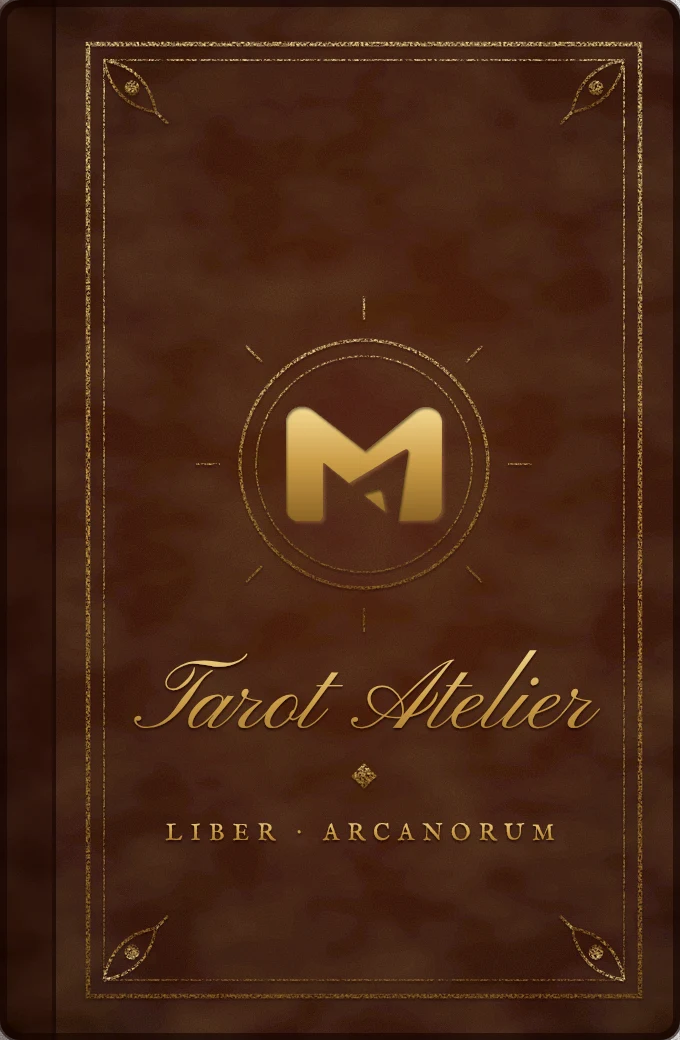
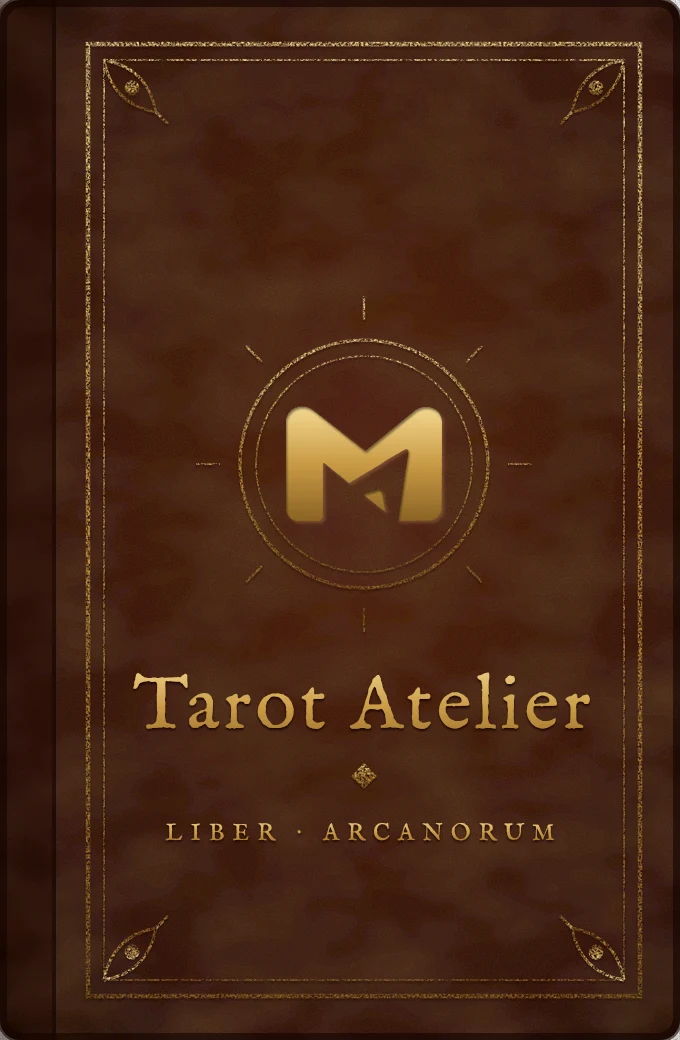
feat(book): Card Reading 亮起背光、手機改放牌陣下方，全站不用草寫 (#55)
* feat(table): light up "Card Reading" once the cards are revealed

Once every card is revealed, "Card Reading" is lit from behind in the
contents' warm light, breathing slowly (steady with less motion), to show
the next step. On a phone it now sits right under the table, in view as
the last card turns, instead of below the questions; opening it brings
the reading at the foot of the page into view and gives it the focus.

Claude-Session: https://claude.ai/code/session_01YWQ4AH8AGc3ra9ztDAqnKM

* fix(reading): set the reading's title in the face of its "Card Reading" cue

The cue that opens the reading was in the controls' face (IM Fell
English) while the reading's title was in the chapters' script, so
"Card Reading" read as two different things. The owner chose the cue's
face for both: the title, on facing pages and under the table, is now
IM Fell English at 34px.

Claude-Session: https://claude.ai/code/session_01YWQ4AH8AGc3ra9ztDAqnKM

* feat(book): set every title in the plain English face, no script

The owner asked for no script lettering anywhere. Page titles and the
contents' English entries now use IM Fell English (the face of the book's
controls), sized down to suit it; the cover's "Tarot Atelier" and the
frontispiece ribbon are re-lettered in it too (pnpm book-art). Pinyon
Script is no longer used, so its package, font import and licence
record go.

Claude-Session: https://claude.ai/code/session_01YWQ4AH8AGc3ra9ztDAqnKM
[…]

Changed region(s): [[0.1853, 0.6154, 0.8647, 0.7077]]

diff --git a/src/presentation/components/DrawExperience.test.tsx b/src/presentation/components/DrawExperience.test.tsx
@@ -308,7 +308,7 @@ describe("DrawExperience spread table", () => {
     expect(screen.queryByRole("button", { name: "看解讀" })).toBeNull();
   });
 
-  it("reads the finished spread offline, labelled as a sample", async () => {
+  it("takes the focus to the reading it opens at the foot of the page", async () => {
     renderTable();
     await ready();
     await shuffleAndPick();
@@ -316,7 +316,17 @@ describe("DrawExperience spread table", () => {
     await screen.findByText("牌陣已完成");
 
     openReading();
-    fireEvent.click(screen.getByRole("button", { name: "產生解讀" }));
+    expect(screen.getByRole("region", { name: "解讀" })).toHaveFocus();
+  });
+
+  it("reads the cards as soon as Card Reading is pressed, offline as a labelled sample", async () => {
+    renderTable();
+    await ready();
+    await shuffleAndPick();
+    [1, 2, 3].forEach((index) => reveal(index));
+    await screen.findByText("牌陣已完成");
+
+    openReading();
     expect(await screen.findByText("全局關聯")).toBeInTheDocument();
     expect(screen.getByText("範例解牌，不是 AI")).toBeInTheDocument();
     expect(document.querySelectorAll(".printed-reading__section")).toHaveLength(
@@ -340,10 +350,12 @@ describe("DrawExperience spread table", () => {
     expect(recorded?.reading).toBeUndefined();
 
     openReading();
-    fireEvent.click(screen.getByRole("button", { name: "產生解讀" }));
     await screen.findByText("全局關聯");
+    // The reading is stored once it has been read; the round stays one.
+    await waitFor(() =>
+      expect(storedRecords(historyStorage)[0]?.reading).toBeDefined(),
+    );
     expect(storedRecords(historyStorage)).toHaveLength(1);
-    expect(storedRecords(historyStorage)[0]?.reading).toBeDefined();
   });
 
   it("shares the finished table with its current reading", async () => {
@@ -353,7 +365,6 @@ describe("DrawExperience spread table", () => {
     [1, 2, 3].forEach((index) => reveal(index));
     await screen.findByText("牌陣已完成");
     openReading();
-    fireEvent.click(screen.getByRole("button", { name: "產生解讀" }));
     await screen.findByText("全局關聯");
 
     fireEvent.click(screen.getByRole("button", { name: "分享" }));
@@ -374,7 +385,6 @@ describe("DrawExperience spread table", () => {
     [1, 2, 3].forEach((index) => reveal(index));
     await screen.findByText("牌陣已完成");
     openReading();
-    fireEvent.click(screen.getByRole("button", { name: "產生解讀" }));
     await screen.findByText("全局關聯");
 
     fireEvent.click(screen.getByRole("button", { name: "清除本次牌陣" }));
@@ -388,7 +398,20 @@ describe("DrawExperience spread table", () => {
     // The new round's reading waits to be asked for again.
     expect(screen.queryByText("全局關聯")).toBeNull();
     openReading();
-    expect(screen.getByRole("button", { name: "產生解讀" })).toBeEnabled();
+    expect(await screen.findByText("全局關聯")).toBeInTheDocument();
+  });
+
+  it("offers sharing beside Card Reading once every card is revealed", async () => {
+    const { share } = renderTable();
+    await ready("這份新工作適合我嗎？");
+    await shuffleAndPick();
+    [1, 2, 3].forEach((index) => reveal(index));
+    await screen.findByText("牌陣已完成");
+
+    fireEvent.click(screen.getByRole("button", { name: "分享" }));
+    const dialog = screen.getByRole("dialog", { name: "分享這次的牌" });
+    await within(dialog).findByAltText("要分享的圖卡預覽");
+    expect(share.rendered.at(-1)?.positions).toHaveLength(3);
   });
 
   it("never shows players the jumper probability", async () => {
@@ -1057,7 +1080,6 @@ describe("DrawExperience on facing pages", () => {
 
     expect(screen.getByRole("heading", { name: "Card Reading" })).toBeVisible();
     expect(document.querySelector(".draw-table__play")).toBeNull();
-    fireEvent.click(screen.getByRole("button", { name: "產生解讀" }));
     expect(await screen.findByText("全局關聯")).toBeInTheDocument();
     // Printed, not folded: each position headed by its short name.
     expect(document.querySelector(".reading-panel details")).toBeNull();

diff --git a/src/presentation/components/DrawExperience.tsx b/src/presentation/components/DrawExperience.tsx
@@ -37,6 +37,7 @@ import { ArrangeConfirmDialog } from "@/presentation/components/spread/ArrangeCo
 import { TableHint } from "@/presentation/components/draw/TableHint";
 import { BookFloatButton } from "@/presentation/components/book/BookFloatButton";
 import { BOOK_COPY } from "@/presentation/components/book/bookCopy";
+import { SHARE_COPY } from "@/presentation/components/share/shareLabels";
 import { MainQuestionField } from "@/presentation/components/spread/MainQuestionField";
 import {
   SpreadBoard,
@@ -198,11 +199,23 @@ export function DrawExperience({
   // opens under the table.
   const readingPage =
     layout === "facing-pages" ? readingPages?.page : undefined;
+  // Opened on one page, the reading lies at the foot of the page: the view
+  // follows it there, and it takes the focus from the cue that opened it.
+  const readingPanel = useRef<HTMLElement>(null);
   const readingOpen =
     layout === "single-page" &&
     spreadRevealed &&
     roundKey !== undefined &&
     readingRound === roundKey;
+  useEffect(() => {
+    const panel = readingPanel.current;
+    if (!readingOpen || !panel) return;
+    panel.focus({ preventScroll: true });
+    panel.scrollIntoView?.({
+      behavior: motionMode === "animated" ? "smooth" : "auto",
+      block: "start",
+    });
+  }, [readingOpen, motionMode]);
   // One spread of the reading on facing pages, live or as a still copy.
   const readingOnPages = (
     page: number,
@@ -231,10 +244,13 @@ export function DrawExperience({
   );
   const showReadingPage = (page: number | undefined) =>
     readingPages?.show(page, printedSpread);
-  const openReading = () =>
-    layout === "facing-pages" && readingPages
-      ? showReadingPage(0)
-      : setReadingRound(roundKey);
+  // "Card Reading" reads the cards at once: there is no second button to
+  // press, unless this round already has a reading or one on the way.
+  const openReading = () => {
+    if (reading.state.status === "idle" && reading.build.ok) reading.generate();
+    if (layout === "facing-pages" && readingPages) showReadingPage(0);
+    else setReadingRound(roundKey);
+  };
 
   const unfinished = arranging || (filled > 0 && !spreadRevealed);
   // On facing pages the notes page has room for the question or for the
@@ -421,15 +437,20 @@ export function DrawExperience({
               {spreadRevealed && !arranging && !readingOpen && (
                 <div className="draw-table__reading-cue">
                   <BookFloatButton
+                    className="draw-table__reading-open"
                     label={BOOK_COPY.cardReadingLabel}
                     onPress={openReading}
                   >
                     <span lang="en">{BOOK_COPY.cardReading}</span>
                   </BookFloatButton>
+                  <BookFloatButton label={SHARE_COPY.open} onPress={shareRound}>
+                    <span lang="en">{BOOK_COPY.share}</span>
+                  </BookFloatButton>
                 </div>
               )}
               {readingOpen && (
                 <ReadingPanel
+                  ref={readingPanel}
                   session={reading}
                   revealed={spreadRevealed}
                   source={readingProvider.source}

diff --git a/e2e/reading.spec.ts b/e2e/reading.spec.ts
@@ -57,7 +57,6 @@ test("reads a finished spread with AI through the site's own endpoint", async ({
 
   await expect(panel.getByRole("radio")).toHaveCount(0);
 
-  await panel.getByRole("button", { name: "產生解讀" }).click();
   await expect(panel.getByText("AI 解讀", { exact: true })).toBeVisible();
   const sections = panel.locator(READING_SECTIONS);
   await expect(sections).toHaveCount(3 + 3);
@@ -90,7 +89,6 @@ test("falls back to a labelled sample when today's AI readings are used up", asy
     reason: "daily-limit",
   });
 
-  await panel.getByRole("button", { name: "產生解讀" }).click();
   await expect(panel.getByText(/今天的 AI 解讀額度已用完/u)).toBeVisible();
   await expect(panel.getByText("範例解牌，不是 AI")).toBeVisible();
   const sections = panel.locator(READING_SECTIONS);
@@ -109,7 +107,6 @@ test("falls back to a labelled sample when the AI is unavailable", async ({
     reason: "unavailable",
   });
 
-  await panel.getByRole("button", { name: "產生解讀" }).click();
   await expect(panel.getByText(/AI 解讀暫時無法使用/u)).toBeVisible();
   await expect(panel.getByText("範例解牌，不是 AI")).toBeVisible();
 });

diff --git a/src/presentation/components/draw/table-hint.css b/src/presentation/components/draw/table-hint.css
@@ -45,5 +45,47 @@
 .draw-table__reading-cue {
   display: flex;
   justify-content: center;
+  align-items: baseline;
+  gap: 32px;
   margin: 0 0 16px;
+}
+
+/* Once every card is revealed, "Card Reading" is lit from behind in the
+   contents' warm light, breathing slowly, to show the next step; "Share"
+   beside it stays plain. */
+.draw-table__reading-open {
+  position: relative;
+  isolation: isolate;
+}
+
+.draw-table__reading-open::before {
+  content: "";
+  position: absolute;
+  z-index: -1;
+  inset: -12px -26px;
+  border-radius: 999px;
+  background: radial-gradient(
+    ellipse at 50% 50%,
+    rgba(255, 206, 110, 0.95),
+    rgba(255, 180, 70, 0.5) 45%,
+    rgba(255, 180, 70, 0) 74%
+  );
+  pointer-events: none;
+}
+
+/* Less motion leaves the light on, without breathing. */
+.draw-experience[data-motion="animated"] .draw-table__reading-open::before {
+  animation: reading-cue-glow 2.4s ease-in-out infinite alternate;
+}
+
+@keyframes reading-cue-glow {
+  from {
+    opacity: 0.45;
+    transform: scale(0.94);
+  }
+
+  to {
+    opacity: 1;
+    transform: scale(1.04);
+  }
 }

diff --git a/src/presentation/components/book/book.css b/src/presentation/components/book/book.css
@@ -6,7 +6,6 @@
   --book-paper: #efe0bd;
   --book-paper-deep: #e4cf9f;
   --book-gold: #e6c57a;
-  --book-script: "Pinyon Script", cursive;
   --book-serif: "IM Fell English", "Iansui", serif;
   --book-text: "Iansui", "Noto Serif TC", serif;
   --book-space-1: 8px;
@@ -288,8 +287,9 @@
 }
 
 .book-title:lang(en) {
-  font-family: var(--book-script);
-  font-size: clamp(40px, 11vw, 64px);
+  font-family: var(--book-serif);
+  font-size: clamp(30px, 8vw, 46px);
+  letter-spacing: 0.04em;
 }
 
 .book-title:focus {
@@ -504,7 +504,7 @@
   color: var(--book-ink-soft);
 }
 
-/* A reader's own spread may be named in Chinese, which the script face
+/* A reader's own spread may be named in Chinese, which the English face
    cannot set: titles take the hand-lettered face unless marked English. */
 .book-contents__title {
   font-family: var(--book-text);
@@ -514,8 +514,9 @@
 }
 
 .book-contents__title:lang(en) {
-  font-family: var(--book-script);
-  font-size: 30px;
+  font-family: var(--book-serif);
+  font-size: 24px;
+  letter-spacing: 0.03em;
 }
 
 .book-contents__dots {

diff --git a/src/presentation/components/reading/ReadingPanel.tsx b/src/presentation/components/reading/ReadingPanel.tsx
@@ -1,6 +1,6 @@
 "use client";
 
-import { useId, type ReactNode } from "react";
+import { useId, type ReactNode, type Ref } from "react";
 import type { ReadingSource } from "@/domain/reading/types";
 import {
   FAILURE_MESSAGES,
@@ -24,6 +24,8 @@ interface ReadingPanelProps {
   readonly onShare: () => void;
   /** The reading's title, printed first, as the page around it sets it. */
   readonly heading: ReactNode;
+  /** The panel itself, which can take the focus when it is turned to. */
+  readonly ref?: Ref<HTMLElement>;
 }
 
 /**
@@ -37,6 +39,7 @@ export function ReadingPanel({
   source,
   onShare,
   heading,
+  ref,
 }: ReadingPanelProps) {
   const titleId = useId();
   const { state, build, stale } = session;
@@ -46,6 +49,8 @@ export function ReadingPanel({
 
   return (
     <section
+      ref={ref}
+      tabIndex={-1}
       className="reading-panel paper-surface"
       aria-labelledby={titleId}
       aria-busy={loading || undefined}

diff --git a/src/presentation/components/book/contents.ts b/src/presentation/components/book/contents.ts
@@ -34,7 +34,7 @@ export interface ContentsEntry {
   /** Roman numeral shown before the title, e.g. `III.` */
   readonly numeral: string;
   readonly title: string;
-  /** `en` when the title can be set in the script face; else the page's own. */
+  /** `en` when the title can be set in the English face; else the page's own. */
   readonly titleLanguage: TitleLanguage;
   readonly page: number;
   readonly section: ContentsSection;
@@ -93,7 +93,7 @@ export function contentsFor(
   return [...chapters, ...appendix];
 }
 
-/** Latin letters, digits, spaces and plain punctuation fit the script face. */
+/** Latin letters, digits, spaces and plain punctuation fit the English face. */
 const LATIN_TITLE = /^[\p{Script=Latin}\d\s'’.,&!?:;()-]+$/u;
 
 export function titleLanguageOf(title: string): TitleLanguage {

diff --git a/src/presentation/components/draw/table-layout.css b/src/presentation/components/draw/table-layout.css
@@ -34,13 +34,14 @@
 .draw-table[data-layout="single-page"] .table-hint {
   order: 6;
 }
-/* The questions, then the way to the reading, and the reading last of all. */
-.draw-table[data-layout="single-page"] .spread-details {
-  order: 7;
-}
+/* Once the cards are revealed, the way to the reading lies right under the
+   table, in view; the questions follow, and the reading comes last of all. */
 .draw-table[data-layout="single-page"] .draw-table__reading-cue {
+  order: 7;
+  margin: 8px 0 24px;
+}
+.draw-table[data-layout="single-page"] .spread-details {
   order: 8;
-  margin: 16px 0 0;
 }
 .draw-table[data-layout="single-page"] .reading-panel {
   order: 9;

diff --git a/e2e/history.spec.ts b/e2e/history.spec.ts
@@ -9,7 +9,6 @@ import {
   pickAll,
   reveal,
   openChapter,
-  readingPanel,
 } from "./support/spreadTable";
 
 // Deals and burns three cards; software-rendered CI browsers need headroom.
@@ -29,7 +28,6 @@ test("keeps a finished round with its reading, and deletes it on request", async
   for (const index of [1, 2, 3]) await reveal(page, index);
   await expect(page.getByText("牌陣已完成")).toBeVisible();
   await openReading(page);
-  await readingPanel(page).getByRole("button", { name: "產生解讀" }).click();
   await expect(page.getByText("AI 解讀", { exact: true })).toBeVisible();
 
   // It survives a reload, which starts the table afresh.

diff --git a/e2e/share.spec.ts b/e2e/share.spec.ts
@@ -32,7 +32,6 @@ test("paints a share image of the finished table and downloads it where sharing 
   await expect(page.getByText("牌陣已完成")).toBeVisible();
   await openReading(page);
   const panel = readingPanel(page);
-  await panel.getByRole("button", { name: "產生解讀" }).click();
   await expect(panel.getByText("AI 解讀", { exact: true })).toBeVisible();
 
   await panel.getByRole("button", { name: "分享", exact: true }).click();

diff --git a/scripts/book-art/bookArt.ts b/scripts/book-art/bookArt.ts
@@ -56,10 +56,6 @@ export const BOOK_ART: readonly BookArtPiece[] = [
 /** Fonts the SVG lettering uses, as `[family, file under node_modules]`. */
 export const BOOK_ART_FONTS: readonly (readonly [string, string])[] = [
   [
-    "Pinyon Script",
-    "@fontsource/pinyon-script/files/pinyon-script-latin-400-normal.woff2",
-  ],
-  [
     "IM Fell English",
     "@fontsource/im-fell-english/files/im-fell-english-latin-400-normal.woff2",
   ],

diff --git a/e2e/chapter-pages.spec.ts b/e2e/chapter-pages.spec.ts
@@ -71,7 +71,6 @@ test("Card Reading turns a leaf to the reading, which runs on to the next spread
     page.getByRole("heading", { name: "Card Reading" }),
   ).toBeFocused();
   await expect(page.locator(".spread-board")).toHaveCount(0);
-  await page.getByRole("button", { name: "產生解讀" }).click();
   await expect(page.getByText("範例解牌，不是 AI")).toBeVisible();
   await expectNoVerticalScroll(page);
 
